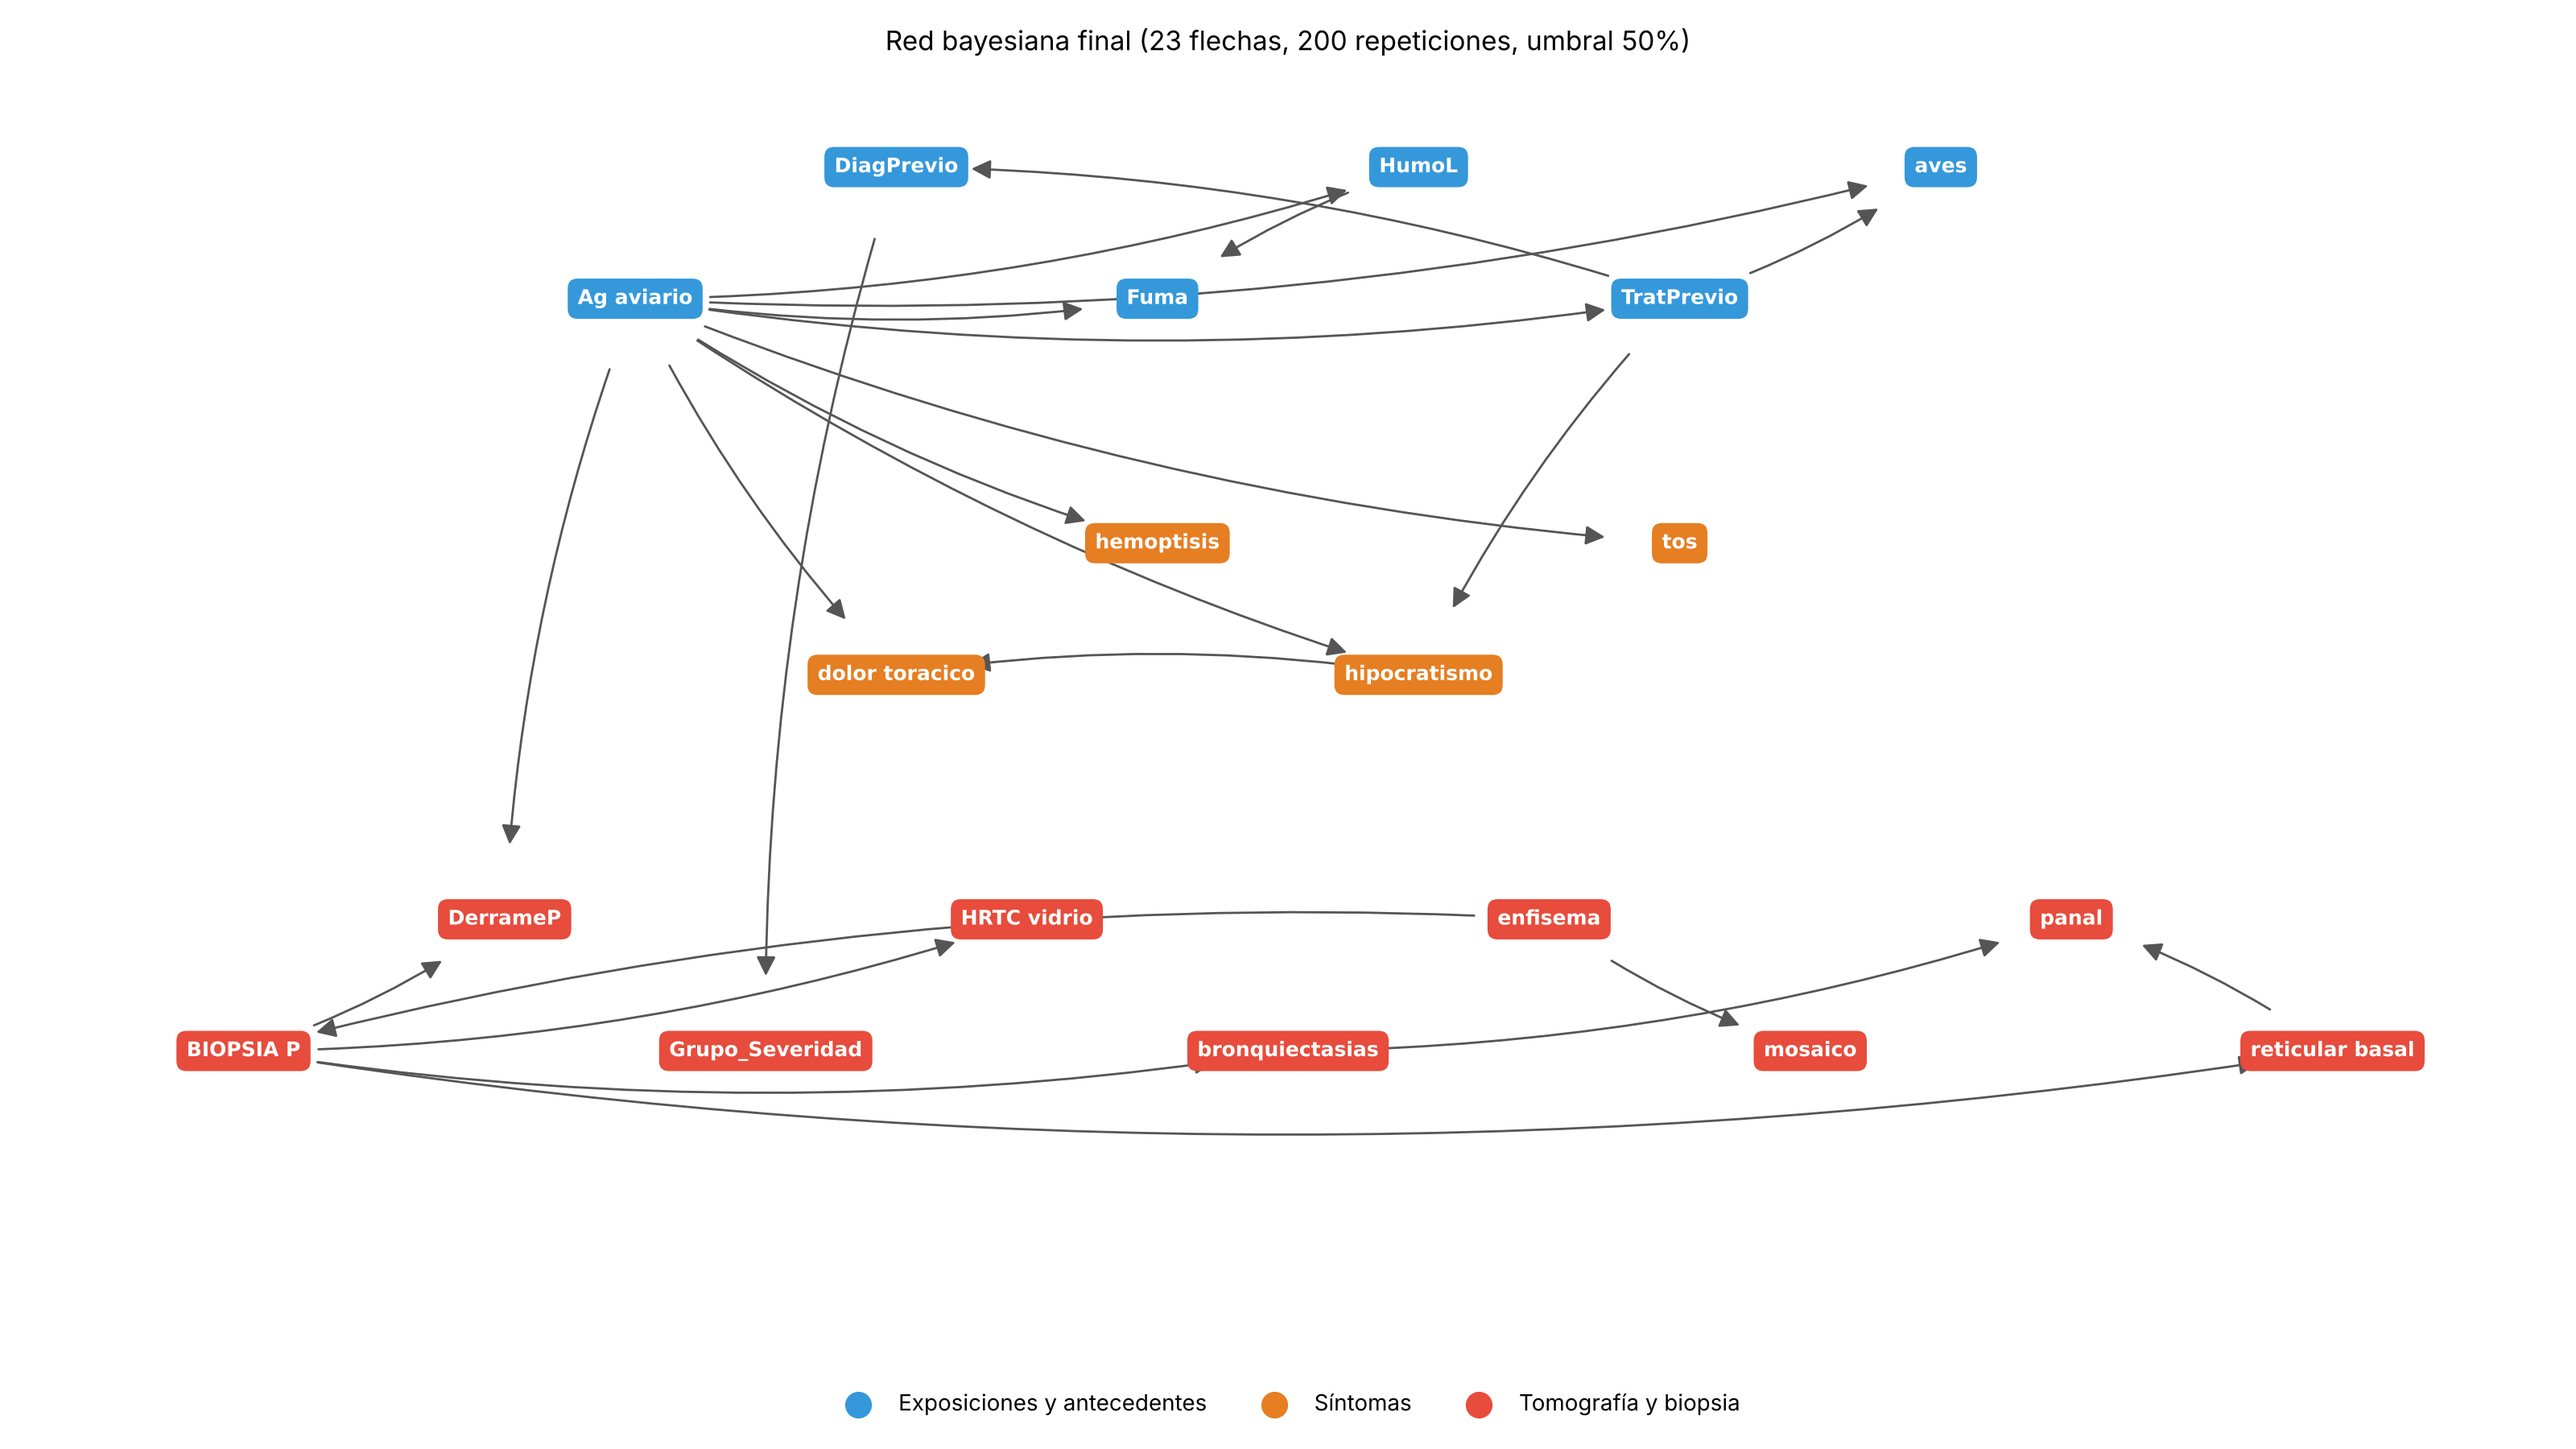
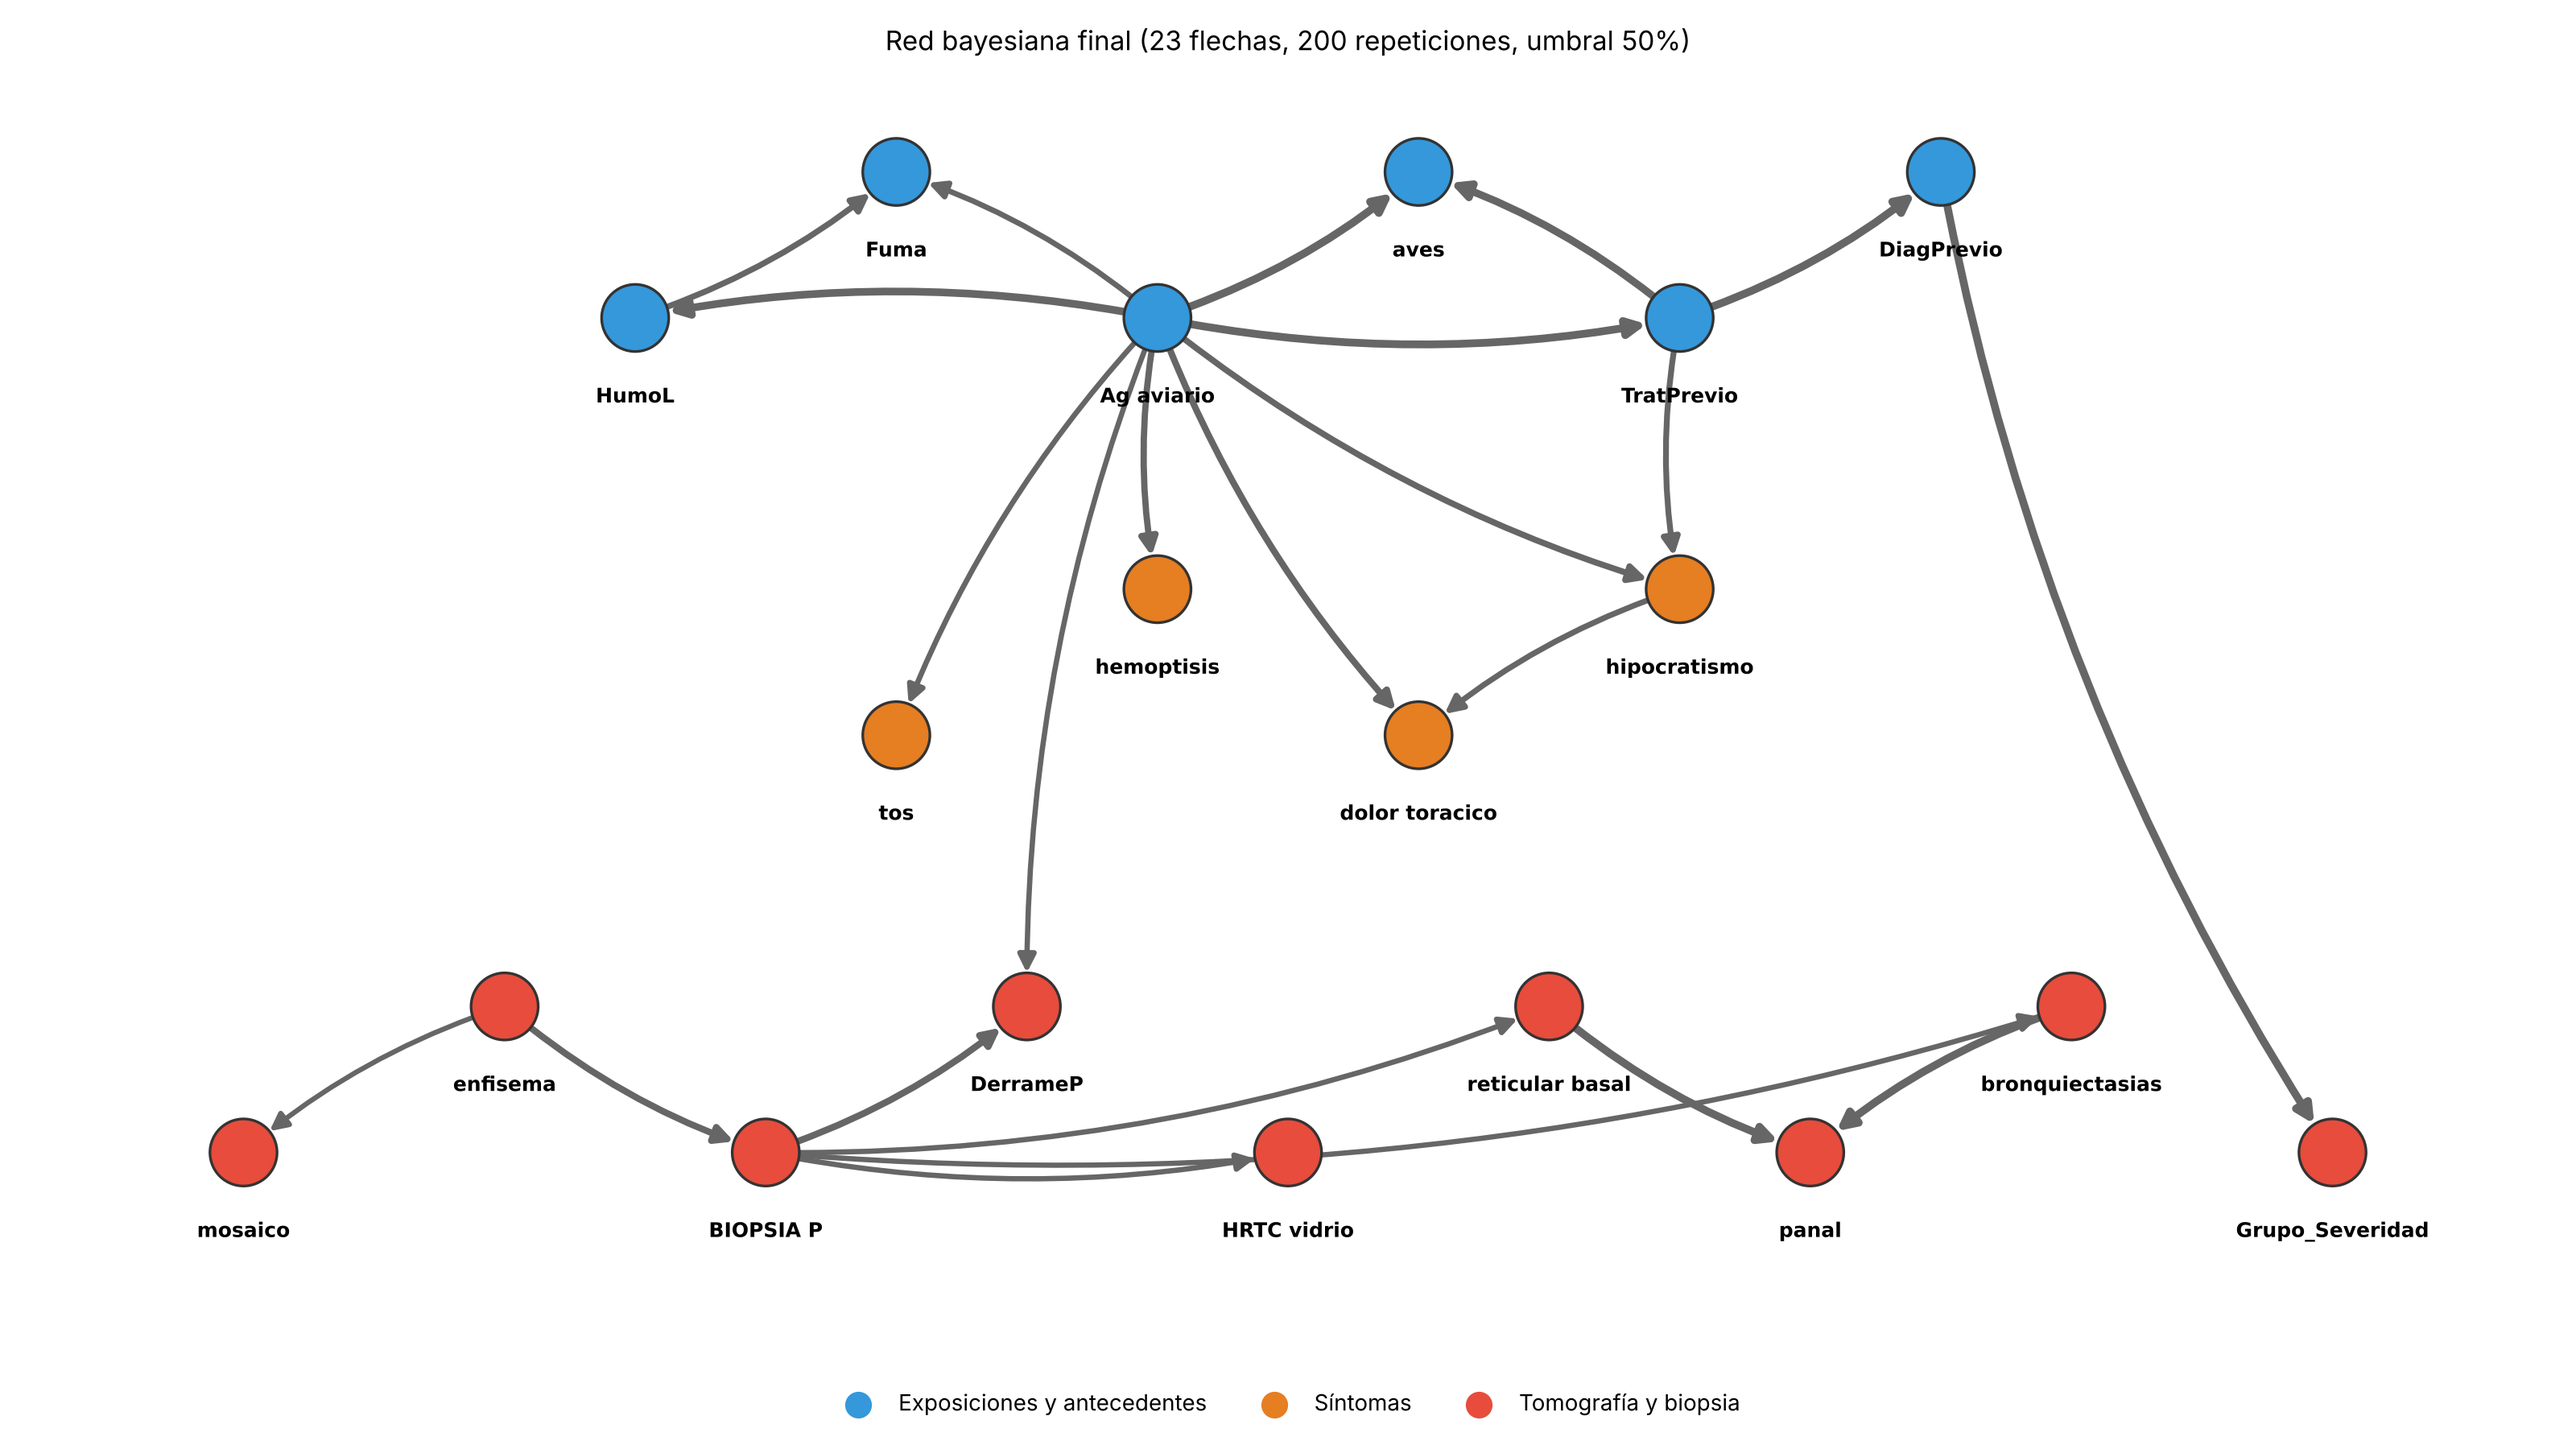
Dibujar la red como grafo con círculos

diff --git a/red_bayesiana.py b/red_bayesiana.py
@@ -269,24 +269,36 @@ print("   Ojo: Grupo_Severidad coincide 100% con DiagPrevio, por eso sale perfec
 colores = {0: "#9b59b6", 1: "#3498db", 2: "#e67e22", 3: "#e74c3c"}
 nombres_nivel = {0: "Demografía", 1: "Exposiciones y antecedentes",
                  2: "Síntomas", 3: "Tomografía y biopsia"}
+# orden de izquierda a derecha en cada renglón (para que se crucen menos flechas)
+ORDEN = ["sexo",
+         "HumoL", "Fuma", "Ag aviario", "aves", "TratPrevio", "DiagPrevio",
+         "tos", "hemoptisis", "dolor toracico", "hipocratismo", "disnea", "fiebre",
+         "mosaico", "enfisema", "BIOPSIA P", "DerrameP", "HRTC vidrio", "reticular basal",
+         "panal", "bronquiectasias", "micronodulos", "consolidacion", "Grupo_Severidad"]
 posiciones = {}
 for nivel in range(4):
-    del_nivel = sorted(n for n in grafo.nodes() if NIVEL[n] == nivel)
+    del_nivel = [n for n in ORDEN if n in grafo.nodes() and NIVEL[n] == nivel]
     for j, n in enumerate(del_nivel):
         x = j - (len(del_nivel) - 1) / 2
         y = -nivel * 2 + (0.7 if j % 2 else 0)       # zigzag para que no se encimen
         posiciones[n] = (x * 2.4, y)
 
 plt.figure(figsize=(16, 9))
-nx.draw_networkx_edges(grafo, posiciones, arrows=True, arrowsize=18, node_size=4500,
-                       edge_color="#555555", connectionstyle="arc3,rad=0.08")
-# cada variable se dibuja como un cuadrito con su nombre, del color de su nivel
+TAM = 900   # tamaño de los círculos
+# flechas: más gruesas mientras más fuerza tenga la flecha en el bootstrap
+fuerza = {(a, b): f for a, b, f in flechas}
+nx.draw_networkx_edges(grafo, posiciones, arrows=True, arrowsize=16, node_size=TAM,
+                       width=[1 + 2.5 * fuerza[e] for e in grafo.edges()],
+                       edge_color="#666666", connectionstyle="arc3,rad=0.1")
+# nodos: un círculo por variable, del color de su nivel
+nx.draw_networkx_nodes(grafo, posiciones, node_size=TAM,
+                       node_color=[colores[NIVEL[n]] for n in grafo.nodes()],
+                       edgecolors="#333333", linewidths=1.2)
+# nombres debajo de cada círculo para que se lean completos
+abajo = {n: (x, y - 0.38) for n, (x, y) in posiciones.items()}
+nx.draw_networkx_labels(grafo, abajo, font_size=9, font_weight="bold")
 for nivel, color in colores.items():
-    etiquetas = {n: n for n in grafo.nodes() if NIVEL[n] == nivel}
-    nx.draw_networkx_labels(grafo, posiciones, labels=etiquetas, font_size=9,
-                            font_color="white", font_weight="bold",
-                            bbox=dict(boxstyle="round,pad=0.5", facecolor=color, edgecolor="none"))
-    if etiquetas:
+    if any(NIVEL[n] == nivel for n in grafo.nodes()):
         plt.scatter([], [], color=color, s=120, label=nombres_nivel[nivel])
 plt.legend(loc="upper center", bbox_to_anchor=(0.5, 0.0), ncol=4, frameon=False)
 plt.title(f"Red bayesiana final ({len(flechas)} flechas, {REPETICIONES} repeticiones, umbral {UMBRAL:.0%})")
